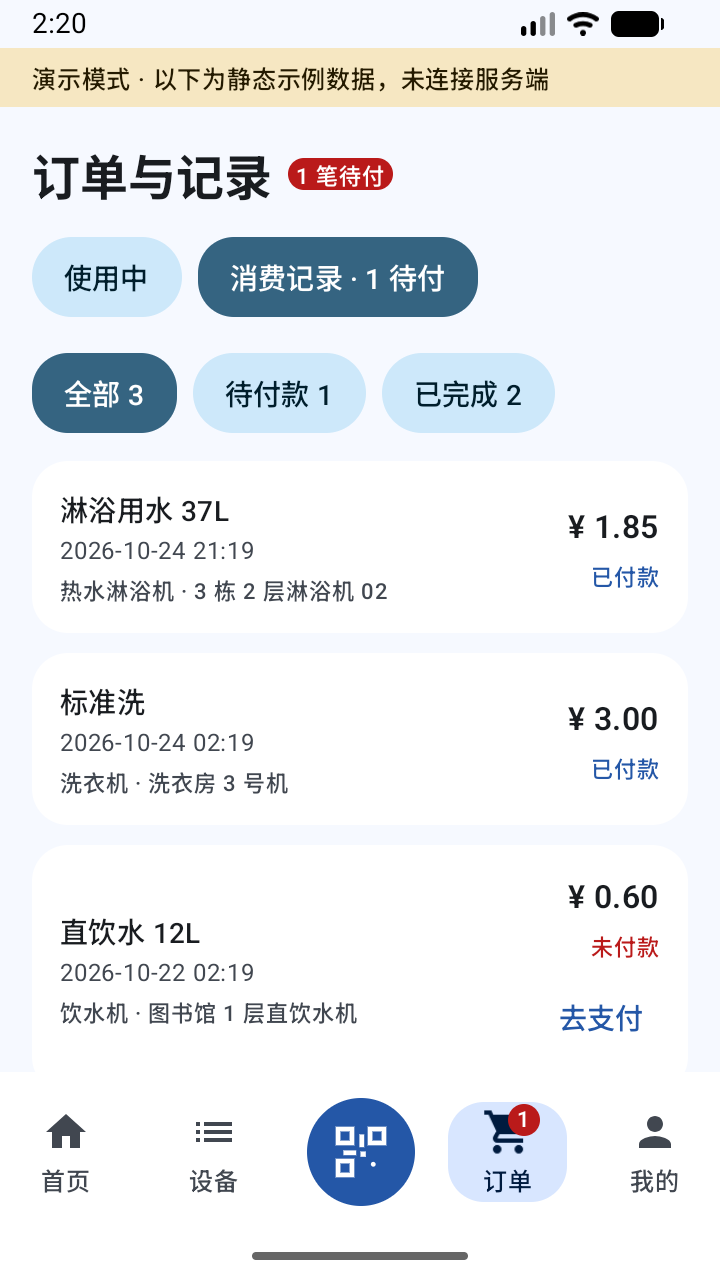
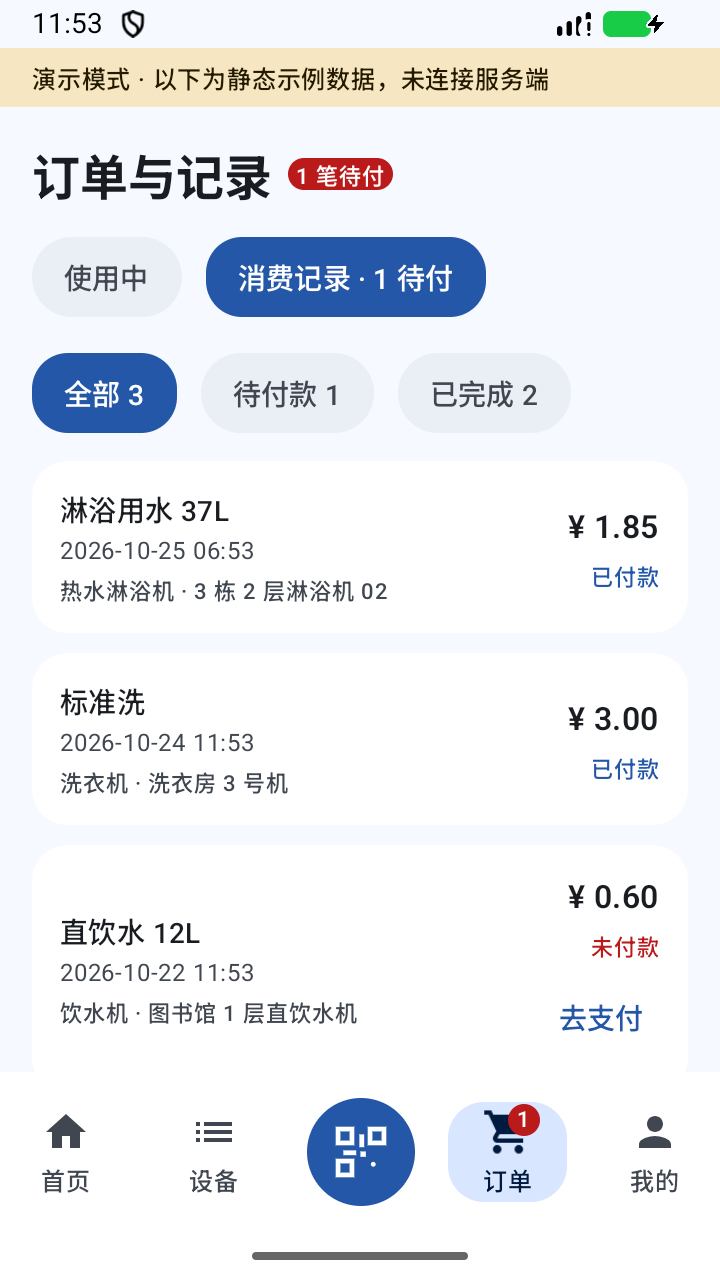
chore(release): 1.11.0

diff --git a/README.md b/README.md
@@ -5,7 +5,7 @@
 | | |
 |---|---|
 | 新客户端包名 | `com.smartlife798.app` |
-| 当前版本 | `1.10.0`（`versionCode 39`） |
+| 当前版本 | `1.11.0`（`versionCode 40`） |
 | 技术栈 | Kotlin 2.2 · Jetpack Compose (Material 3 Expressive) · OkHttp · CameraX + ML Kit · Alipay / WeChat SDK |
 | 最低版本 | Android 7.0（API 24） |
 | 最新已发布 | [1.9.7 APK](https://github.com/wu-shanglin/Smartlife798/releases/download/v1.9.7/SmartLife798-1.9.7-debug.apk) · [Release 说明](https://github.com/wu-shanglin/Smartlife798/releases/tag/v1.9.7) |
@@ -14,9 +14,7 @@
 
 ## 当前版本
 
-- **1.10.0：Material 3 Expressive（本地交付准备，未发布）**。官方增强组件、按压形变与选择反馈、变形加载与波浪进度；详情数据在共享飞入过程中立即渲染。最新已发布版本仍为 1.9.7，以下发布策略针对该版本。
-
-- **下一版本开发**：账单与支付采用稳定视口和固定操作区，长内容内部滚动；扩展官方 ButtonGroup、下拉刷新与图标/设置按压反馈，交付前另行准备新版本 APK。工程验证与未验边界见 [docs/05](docs/05-真实支付与计费实测.md#9-工程验证记录)。
+- **1.11.0：账单面板稳定与 Expressive 交互（本地交付准备，未发布）**。账单和支付保持稳定视口，标题、金额与付款/重试按钮固定，长内容内部滚动；详情先收起再打开支付。订单和设备分栏接入官方 ButtonGroup，扩展下拉刷新、图标/文字按钮及设置选择的按压反馈，并验证小屏大字溢出菜单。最新已发布仍为 1.9.7，以下发布策略针对该版本；本次工程证据与真机未验边界见 [docs/05](docs/05-真实支付与计费实测.md#9-工程验证记录)。
 
 - **1.9.7：详情加载与更新进度**。合并详情首载期间的刷新，避免取消重发；更新进度固定在弹窗按钮上方，仅显示进度和状态，不随日志滚动。已正式发布普通更新，最低支持码保留 37，1.9.6 用户可稍后更新。
 - **1.9.6：强制更新返回退出**。返回退出应用并保留更新限制，重新打开仍须更新；下载忙碌时也可退出，外部点击不能绕过。普通更新返回只关闭弹窗。旧 APK 的返回行为需升级后才能修复。
@@ -51,13 +49,13 @@
 
 | 本地构建 | 文件 |
 |---|---|
-| 产物 | [`dist/SmartLife798-1.10.0-debug.apk`](dist/SmartLife798-1.10.0-debug.apk) |
+| 产物 | [`dist/SmartLife798-1.11.0-debug.apk`](dist/SmartLife798-1.11.0-debug.apk) |
 
 原 APK、静态分析缓存、`evidence/` 及 APK 不入库。原样本、签名、本机配置、当前交付和独有证据须保留；清理规则见 [文档与目录维护](docs/06-工程规范与路线图.md#4-文档与目录维护)。
 
 ## 截图
 
-截图来源、版本及限制统一见 [截图清单](docs/02-功能设计与UI方案.md#7-界面截图)；首页、设备、详情、订单、我的及深色页已同步 1.10.0 演示构建；登录、扫码与手输保留 1.8.0 历史图。演示截图不能作为真实业务验收。
+截图来源、版本及限制统一见 [截图清单](docs/02-功能设计与UI方案.md#7-界面截图)；订单、待付款和账单详情为 1.11.0 演示构建；首页、设备、设备详情、我的及深色页保留 1.10.0，登录、扫码与手输保留 1.8.0 历史图。演示截图不能作为真实业务验收。
 
 | 登录 | 首页 | 扫码 |
 |---|---|---|
@@ -69,7 +67,11 @@
 
 | 消费记录 | 待付款筛选与角标 | 我的 |
 |---|---|---|
-| ![1.10.0 消费记录演示](screenshots/orders.png) | ![1.10.0 待付款演示](screenshots/preview_bills.png) | ![1.10.0 我的设置卡片演示](screenshots/me.png) |
+| ![1.11.0 消费记录演示](screenshots/orders.png) | ![1.11.0 待付款演示](screenshots/preview_bills.png) | ![1.10.0 我的设置卡片演示](screenshots/me.png) |
+
+| 账单详情（演示，不执行支付） |
+|---|
+| ![1.11.0 稳定账单面板](screenshots/bill_detail.png) |
 
 | 深色首页 | 外观（演示内深色选择） |
 |---|---|

diff --git a/docs/02-功能设计与UI方案.md b/docs/02-功能设计与UI方案.md
@@ -351,7 +351,7 @@ App
 
 ## 7. 界面截图
 
-截图使用独立无账号 API 36 模拟器（720 × 1280、360dp、默认字体）采集。首页、设备、详情、消费记录、待付款、我的与深色页面于 2026-10-25 使用 1.10.0 / versionCode 39 本地构建同名覆盖；登录、扫码和手动输入保留 1.8.0 / versionCode 30 历史展示。登录页为匿名页面；其余页面均带演示标识，使用静态示例数据。本次深色通过演示内外观选择，外观与启动页选择均不写入安装偏好。截图不代表实体扫码、启停、支付、签约或真机性能通过。
+截图使用独立无账号 API 36/36.1 模拟器（720 × 1280、360dp、默认字体）采集。消费记录、待付款和账单详情于 2026-10-25 使用 1.11.0 / versionCode 40 本地构建采集，前两张同名覆盖；首页、设备、设备详情、我的与深色保留 1.10.0 / 39，登录、扫码和手动输入保留 1.8.0 / 30 历史展示。登录页为匿名页面；其他页面使用静态演示数据，账单面板下的演示横幅被遮罩覆盖。深色历史图通过演示内外观选择，外观与启动页选择均不写入安装偏好。截图不代表实体扫码、启停、支付、签约或真机性能通过。
 
 | 页面 | 文件 | 来源与限制 |
 |---|---|---|
@@ -361,8 +361,9 @@ App
 | 详情 | [device.png](../screenshots/device.png) | 1.10.0 官方增强主按钮与模式选择，演示详情 |
 | 扫码 | [scan.png](../screenshots/scan.png) | 1.8.0 虚拟相机与独立手动输入入口，未扫描真实设备 |
 | 手动输入 | [manual.png](../screenshots/manual.png) | 1.8.0 独立输入页，未提交真实编号 |
-| 消费记录 | [orders.png](../screenshots/orders.png) | 1.10.0 增强分栏与筛选，静态示例账单 |
-| 待付款与角标 | [preview_bills.png](../screenshots/preview_bills.png) | 1.10.0 待付款筛选，未发起支付 |
+| 消费记录 | [orders.png](../screenshots/orders.png) | 1.11.0 ButtonGroup 分栏与筛选，静态示例账单 |
+| 待付款与角标 | [preview_bills.png](../screenshots/preview_bills.png) | 1.11.0 待付款筛选，未发起支付 |
+| 账单详情 | [bill_detail.png](../screenshots/bill_detail.png) | 1.11.0 稳定视口、固定金额与付款入口；演示账单，未执行付款 |
 | 深色 | [dark.png](../screenshots/dark.png) | 1.10.0 演示内深色首页 |
 | 我的 | [me.png](../screenshots/me.png) | 1.10.0 本地构建，浅色设置与官方增强扫码入口 |
 | 外观 | [appearance_dark.png](../screenshots/appearance_dark.png) | 1.10.0 本地构建，演示内选择深色；动态取色关闭 |

diff --git a/CHANGELOG.md b/CHANGELOG.md
@@ -7,6 +7,8 @@
 
 ## [Unreleased]
 
+## [1.11.0] - 2026-10-25
+
 ### 修复与交互
 
 - 账单与支付面板改为稳定视口，明细和渠道在内部滚动，标题、金额及付款入口固定；避免内容高度和安全区反复改变展开位置。详情先完成收起再打开支付，快速点击合并为一次详情读取，缺少详情 bill 时保留列表账单。
@@ -16,6 +18,8 @@
 ### 工程维护
 
 - 同步 1.9.7 普通更新正式下载入口、最低支持范围及公开下载/系统覆盖安装验收记录；不修改已发布 APK 或版本码。
+
+本版本为本地交付准备，尚未发布 GitHub Release。
 
 ## [1.10.0] - 2026-10-25
 
